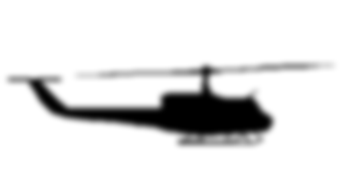
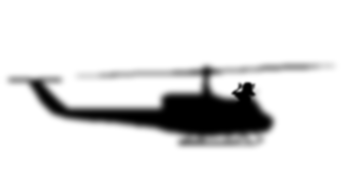
Change card the Helicopter to deal multiple instances of 1 damage

Changed region(s): [[0.6571, 0.4651, 0.7429, 0.6105]]

diff --git a/src/main/java/mari_mod/cards/Mari_The_HELICOPTER.java b/src/main/java/mari_mod/cards/Mari_The_HELICOPTER.java
@@ -1,13 +1,11 @@
 package mari_mod.cards;
 
-import com.megacrit.cardcrawl.actions.animations.VFXAction;
 import com.megacrit.cardcrawl.cards.AbstractCard;
 import com.megacrit.cardcrawl.characters.AbstractPlayer;
 import com.megacrit.cardcrawl.dungeons.AbstractDungeon;
 import com.megacrit.cardcrawl.localization.CardStrings;
 import com.megacrit.cardcrawl.monsters.AbstractMonster;
-import mari_mod.actions.MariTheHelicopterAction;
-import mari_mod.effects.MariHelicopterEffect;
+import mari_mod.actions.MariPreHelicopterAction;
 import org.apache.logging.log4j.LogManager;
 import org.apache.logging.log4j.Logger;
 
@@ -21,21 +19,17 @@ public class Mari_The_HELICOPTER extends AbstractMariCard {
     public static final String DESCRIPTION = cardStrings.DESCRIPTION;
     private static final int COST = 3;
     private static final int BASE_GOLD_COST = 15;
-    private static final int ATTACK_DMG = 8;
-    private static final int ATTACK_DMG_UHH = -2;
-    private static final int ATTACK_TIMES = 4;
-    private static final int ATTACK_TIME_UPGRADE = 2;
+    private static final int ATTACK_DMG = 18;
+    private static final int ATTACK_DMG_UPGRADE = 6;
     private static final CardType TYPE = CardType.ATTACK;
     private static final CardRarity RARITY = CardRarity.UNCOMMON;
-    private static final CardTarget TARGET = CardTarget.ALL_ENEMY;
+    private static final CardTarget TARGET = CardTarget.ENEMY;
 
     public Mari_The_HELICOPTER(){
         super(ID, NAME, COST, DESCRIPTION, TYPE, RARITY, TARGET);
         this.tags.add(MariCustomTags.SPEND);
         this.baseDamage = ATTACK_DMG;
         this.baseGoldCost = BASE_GOLD_COST;
-        this.baseMagicNumber = ATTACK_TIMES;
-        this.magicNumber = this.baseMagicNumber;
         this.goldCost = this.baseGoldCost;
     }
 
@@ -43,22 +37,7 @@ public class Mari_The_HELICOPTER extends AbstractMariCard {
     public void use(AbstractPlayer p, AbstractMonster m) {
 //        AbstractDungeon.actionManager.addToBottom(new MariInvestGoldAction(this));
 
-        this.magicNumber = ATTACK_TIMES;
-        if(this.upgraded) this.magicNumber += ATTACK_TIME_UPGRADE;
-        float averageX = 0.0f;
-        float averageY = 0.0f;
-        int monsters = 0;
-        for(AbstractMonster mo: AbstractDungeon.getCurrRoom().monsters.monsters){
-            if(!mo.halfDead && !mo.isDead){
-                averageX += mo.hb.cX;
-                averageY += mo.hb.cY;
-                monsters++;
-            }
-        }
-        averageX/=monsters;
-        averageY/=monsters;
-        AbstractDungeon.actionManager.addToBottom(new VFXAction(new MariHelicopterEffect(averageX, averageY),1.3F));
-        AbstractDungeon.actionManager.addToBottom(new MariTheHelicopterAction(this.magicNumber,this.baseDamage));
+        AbstractDungeon.actionManager.addToBottom(new MariPreHelicopterAction(this.damage, m));
 
     }
 
@@ -71,8 +50,7 @@ public class Mari_The_HELICOPTER extends AbstractMariCard {
     public void upgrade() {
         if (!this.upgraded) {
             upgradeName();
-            upgradeDamage(ATTACK_DMG_UHH);
-            upgradeMagicNumber(ATTACK_TIME_UPGRADE);
+            upgradeDamage(ATTACK_DMG_UPGRADE);
         }
     }
 }

diff --git a/src/main/java/mari_mod/actions/MariTheHelicopterAction.java b/src/main/java/mari_mod/actions/MariTheHelicopterAction.java
@@ -1,53 +1,44 @@
 package mari_mod.actions;
 
 import com.megacrit.cardcrawl.actions.AbstractGameAction;
-import com.megacrit.cardcrawl.actions.common.DamageAction;
 import com.megacrit.cardcrawl.cards.DamageInfo;
 import com.megacrit.cardcrawl.dungeons.AbstractDungeon;
 import com.megacrit.cardcrawl.monsters.AbstractMonster;
 import com.megacrit.cardcrawl.vfx.AbstractGameEffect;
+import mari_mod.MariMod;
 import mari_mod.effects.MariHelicopterEffect;
 import org.apache.logging.log4j.LogManager;
 import org.apache.logging.log4j.Logger;
 
 public class MariTheHelicopterAction extends AbstractGameAction {
     public static final Logger logger = LogManager.getLogger(MariTheHelicopterAction.class.getName());
-    private static final float DURATION = 0.01F;
-    private static final float POST_ATTACK_WAIT_DUR = 0.1F;
-    private DamageInfo helicopterDamage;
-    private int damage;
-    private int numTimes;
-    private int amount;
+    private int maxDamage;
+    private int totalDamage;
+    public static final float MAX_DUR = 20f;
+    public static final float TIME_PER_HIT = 0.1f;
 
-    public MariTheHelicopterAction(int numTimes, int damage) {
+    public MariTheHelicopterAction(int damage) {
         this.actionType = ActionType.DAMAGE;
-        this.duration = 0.001F;
-        this.numTimes = numTimes;
-        this.damage = damage;
-        this.helicopterDamage = new DamageInfo(AbstractDungeon.player,damage, DamageInfo.DamageType.NORMAL);
+        this.duration = MAX_DUR;
+        this.maxDamage = damage;
+        this.totalDamage = 0;
     }
 
     public void update() {
 
-        this.duration = 0F;
-        if (this.numTimes >= 1 && !AbstractDungeon.getMonsters().areMonstersBasicallyDead()) {
-
-            --this.numTimes;
-            AbstractMonster randomMonster = AbstractDungeon.getMonsters().getRandomMonster((AbstractMonster)null, true, AbstractDungeon.cardRandomRng);
-
-            if(randomMonster != null) {
-                helicopterDamage.applyPowers(AbstractDungeon.player, randomMonster);
-
-                AbstractDungeon.actionManager.addToTop(new MariTheHelicopterAction(this.numTimes, this.damage));
-                AbstractDungeon.actionManager.addToTop(new DamageAction(randomMonster, helicopterDamage, AbstractGameAction.AttackEffect.BLUNT_LIGHT, true));
-            }else{
+        if((MAX_DUR - this.duration)/TIME_PER_HIT > totalDamage) {
+            if (totalDamage < maxDamage) {
+                totalDamage++;
+                for (AbstractMonster m : AbstractDungeon.getCurrRoom().monsters.monsters) {
+                    MariMod.instantDamageAction(m, new DamageInfo(AbstractDungeon.player, 1, DamageInfo.DamageType.NORMAL), AttackEffect.SLASH_HORIZONTAL);
+                }
+            } else {
                 endAnimation();
+                this.isDone = true;
             }
-        }else{
-            endAnimation();
         }
-        this.isDone = true;
 
+        tickDuration();
     }
 
     public void endAnimation(){

diff --git a/src/main/java/mari_mod/actions/MariPreHelicopterAction.java b/src/main/java/mari_mod/actions/MariPreHelicopterAction.java
@@ -1,0 +1,44 @@
+package mari_mod.actions;
+
+import com.megacrit.cardcrawl.actions.AbstractGameAction;
+import com.megacrit.cardcrawl.actions.animations.VFXAction;
+import com.megacrit.cardcrawl.cards.DamageInfo;
+import com.megacrit.cardcrawl.dungeons.AbstractDungeon;
+import com.megacrit.cardcrawl.monsters.AbstractMonster;
+import mari_mod.MariMod;
+import mari_mod.effects.MariHelicopterEffect;
+import org.apache.logging.log4j.LogManager;
+import org.apache.logging.log4j.Logger;
+
+public class MariPreHelicopterAction extends AbstractGameAction {
+    public static final Logger logger = LogManager.getLogger(MariPreHelicopterAction.class.getName());
+    private int damage;
+
+    public MariPreHelicopterAction(int damage, AbstractMonster target) {
+        this.actionType = ActionType.DAMAGE;
+        this.duration = 0.001F;
+        this.damage = damage;
+        this.target = target;
+    }
+
+    public void update() {
+        float averageX = 0.0f;
+        float averageY = 0.0f;
+        int monsters = 0;
+        for(AbstractMonster mo: AbstractDungeon.getCurrRoom().monsters.monsters){
+            if(!mo.halfDead && !mo.isDead){
+                averageX += mo.hb.cX;
+                averageY += mo.hb.cY;
+                monsters++;
+            }
+        }
+        averageX/=monsters;
+        averageY/=monsters;
+        MariMod.instantDamageAction(target, new DamageInfo(AbstractDungeon.player, damage, DamageInfo.DamageType.NORMAL), AttackEffect.BLUNT_LIGHT);
+        AbstractDungeon.actionManager.addToTop(new MariTheHelicopterAction(this.damage));
+        AbstractDungeon.actionManager.addToTop(new VFXAction(new MariHelicopterEffect(averageX, averageY),1.3F));
+
+        this.isDone = true;
+    }
+
+}
